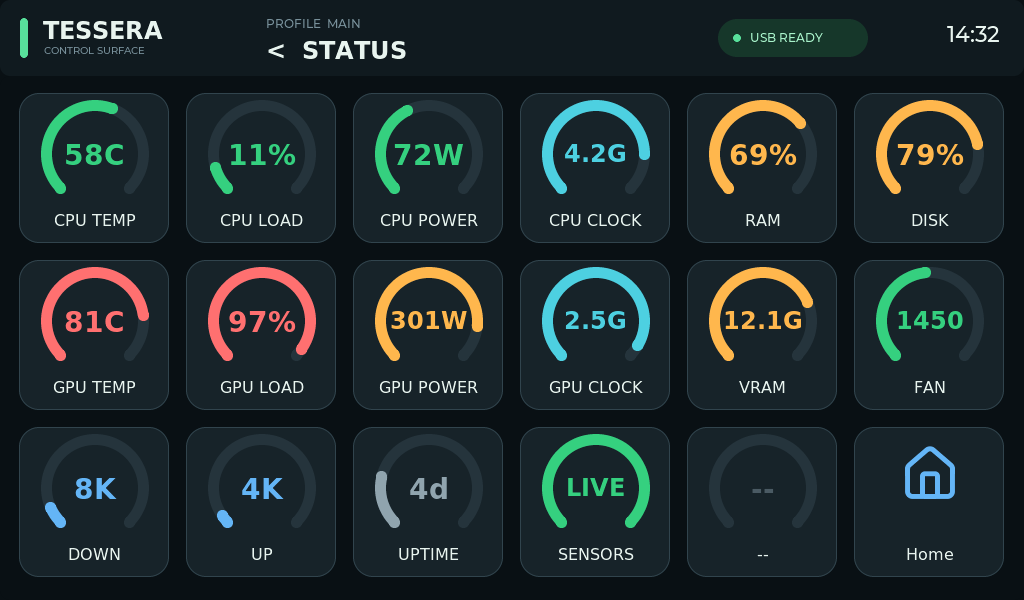
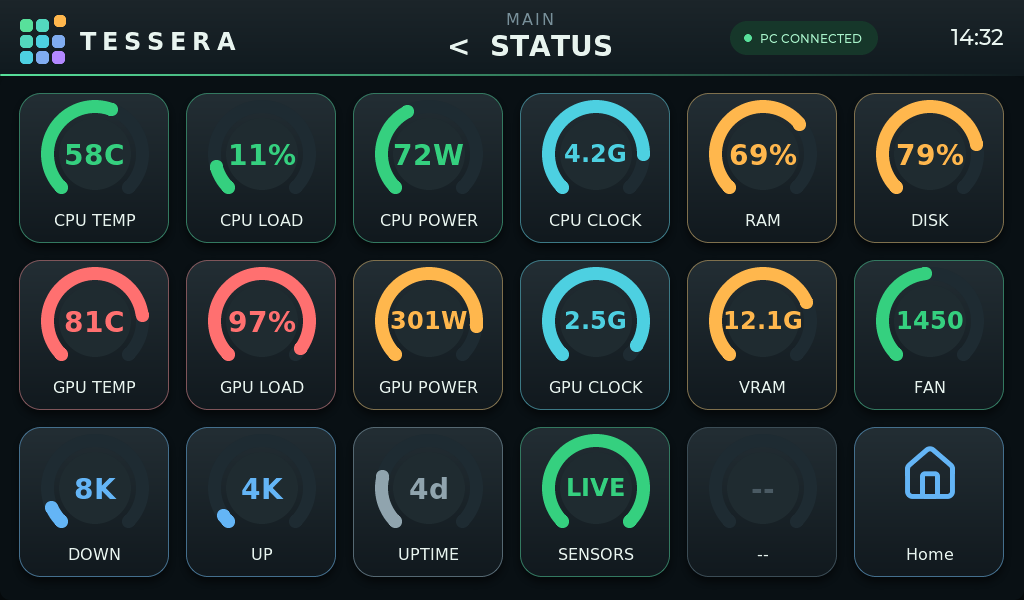
feat: richer key and gauge look on the panel and in the editor
Gradient key cards with tinted borders and soft shadows, disc-backed gauge rings,
a vertical background gradient and a clean TESSERA wordmark in the header.
The editor mirrors the panel. Screenshots refreshed.

diff --git a/host/editor/index.html b/host/editor/index.html
@@ -22,7 +22,7 @@
 <input type="file" id="import-file" accept=".json,application/json" hidden>
 </div>
 <div class="device-frame" id="device-frame"><div class="device-screen" id="device-screen">
-<div class="screen-header"><span class="screen-logo" data-logo></span><b class="screen-wordmark" data-wordmark role="img" aria-label="Tessera"></b><div class="screen-context"><small id="screen-profile">LOCAL</small><b id="screen-page">Main</b></div><div class="screen-pill"><i></i><span id="screen-usb">PC CONNECTED</span></div><span class="screen-clock" id="screen-clock">--:--</span><span class="screen-rule"></span></div>
+<div class="screen-header"><span class="screen-logo" data-logo></span><b class="screen-wordmark">TESSERA</b><div class="screen-context"><small id="screen-profile">LOCAL</small><b id="screen-page">Main</b></div><div class="screen-pill"><i></i><span id="screen-usb">PC CONNECTED</span></div><span class="screen-clock" id="screen-clock">--:--</span><span class="screen-rule"></span></div>
 <div id="deck-grid" class="deck-grid" role="group" aria-label="Deck: 18 button slots"></div></div></div>
 <div class="syncbar"><div><span id="save-state" role="status" aria-live="polite">Loading configuration …</span><small id="save-note">Changes are saved automatically.</small></div>
 <label class="sync-switch"><input type="checkbox" id="sync" checked><span>Mirror on panel</span></label><button id="reload" class="outline" hidden>Reload</button><button id="activate" class="primary" hidden>Show on device</button></div>

diff --git a/host/editor/app.js b/host/editor/app.js
@@ -264,10 +264,11 @@ function expandLabel(value) {
   return text.replace(/[\u0000-\u001f]/g,' ');
 }
 function gaugeVisual(b,live) {
-  const NS='http://www.w3.org/2000/svg',D=108,width=11,r=(D-width)/2,C=2*Math.PI*r,arc=C*.75;
+  const NS='http://www.w3.org/2000/svg',D=108,width=13,r=(D-width)/2,C=2*Math.PI*r,arc=C*.75;
   const p=Math.max(0,Math.min(100,live?live.p:0)),color=live?.color||b.color||'#35D07F';
   const svg=document.createElementNS(NS,'svg');svg.setAttribute('viewBox',`0 0 ${D} ${D}`);svg.setAttribute('class','gauge-ring');
-  const rings=[[arc,'#25343C']];if(p>0)rings.push([arc*p/100,color]);
+  const disc=document.createElementNS(NS,'circle');for(const [name,value] of Object.entries({cx:D/2,cy:D/2,r:(D-36)/2,fill:'#1B272D'}))disc.setAttribute(name,value);svg.append(disc);
+  const rings=[[arc,'#1E2B32']];if(p>0)rings.push([arc*p/100,color]);
   for(const [dash,stroke] of rings) {
     const circle=document.createElementNS(NS,'circle');
     const attributes={cx:D/2,cy:D/2,r,fill:'none',stroke,'stroke-width':width,'stroke-linecap':'round','stroke-dasharray':`${dash} ${C}`,transform:`rotate(135 ${D/2} ${D/2})`};

diff --git a/host/editor/style.css b/host/editor/style.css
@@ -147,3 +147,8 @@ span.key-symbol{left:0;width:150px;top:17px;height:60px}
 .plugin-row .error{color:#ff8a80;font-size:13px}
 #log-dialog{width:min(900px,94vw)}
 #log-view{margin:12px 0 0;height:50vh;overflow:auto;background:#0b1114;border:1px solid #26343b;border-radius:10px;padding:10px 12px;font:12px/1.45 Consolas,monospace;color:#cfe3da;white-space:pre-wrap;word-break:break-word}
+.screen-wordmark{left:80px;top:26px;width:auto;height:auto;font-size:24px;line-height:28px;letter-spacing:6px;font-weight:700;color:#e8f4ef}
+.screen-header{background:linear-gradient(#171f25,#101a1f)}
+.device-screen{background:linear-gradient(#091014,#05090b)}
+.deck-key:not(.empty){background:linear-gradient(#232e34,#11191d);border-color:color-mix(in srgb,var(--key-color,#31444d) 38%,#31444d);box-shadow:0 5px 18px #0008;border-radius:22px}
+.deck-key.selected{box-shadow:0 0 0 3px #58e09b30,0 5px 18px #0008;border-color:#58e09b}

diff --git a/main/ui/ui.cpp b/main/ui/ui.cpp
@@ -26,6 +26,7 @@ constexpr uint32_t Border=0x31444D,Text=0xE8F4EF,Muted=0x78909A,Accent=0x58E09B;
 constexpr uint32_t PressedBg=0x254E3B,OkBg=0x1E6042,AlertBg=0x6E2633,Amber=0xFFB74D;
 /* The four logo tile colors; they are the interface roles: go, info, media, toggle. */
 constexpr uint32_t Cyan=0x4DD0E1,Purple=0xB388FF;
+uint32_t mix(uint32_t from,uint32_t to,float t);
 /* The host pings every second; three missed pings mean nobody runs the keys. */
 constexpr int64_t HostTimeoutMs=3500;
 /* A pressed key stays highlighted until the host confirms it. Long multi-step
@@ -91,9 +92,13 @@ void image_frame(ImageTile& value) {
     lv_image_set_src(value.widget,&value.descriptor);lv_obj_invalidate(value.widget);
     value.due=millis()+value.image->durations[value.frame];
 }
-uint32_t base_bg[DECK_MAX_BUTTONS];  /* resting key background, restored after a confirmation flash */
+uint32_t base_bg[DECK_MAX_BUTTONS],base_top[DECK_MAX_BUTTONS],base_bottom[DECK_MAX_BUTTONS];  /* resting key fill, restored after a flash */
+void fill(int slot,uint32_t top,uint32_t bottom) {
+    lv_obj_set_style_bg_color(keys[slot],lv_color_hex(top),0);lv_obj_set_style_bg_grad_color(keys[slot],lv_color_hex(bottom),0);
+    lv_obj_set_style_bg_grad_dir(keys[slot],LV_GRAD_DIR_VER,0);
+}
 void flash(int slot,uint32_t color,uint32_t ms) {
-    lv_obj_set_style_bg_color(keys[slot],lv_color_hex(color),0);flash_until[slot]=millis()+ms;
+    fill(slot,color,mix(color,0x000000,.25f));flash_until[slot]=millis()+ms;
 }
 void press(lv_event_t *event) {
     const int slot=static_cast<int>(reinterpret_cast<intptr_t>(lv_event_get_user_data(event)));
@@ -132,12 +137,14 @@ void style_gauge(int slot,const deck_button_t& value) {
 }
 void make_gauge(int slot,lv_obj_t *tile,const deck_button_t& value) {
     constexpr int D=108,Top=6;
+    auto *disc=lv_obj_create(tile);flat(disc,mix(base_bg[slot],0xFFFFFF,.035f));lv_obj_set_size(disc,D-36,D-36);
+    lv_obj_set_pos(disc,(Cell-(D-36))/2,Top+18);lv_obj_set_style_radius(disc,LV_RADIUS_CIRCLE,0);lv_obj_remove_flag(disc,LV_OBJ_FLAG_CLICKABLE);
     auto *arc=lv_arc_create(tile);gauge_arc[slot]=arc;
     lv_obj_set_size(arc,D,D);lv_obj_set_pos(arc,(Cell-D)/2,Top);
     lv_arc_set_range(arc,0,100);lv_arc_set_bg_angles(arc,135,45);
     lv_obj_remove_style(arc,nullptr,LV_PART_KNOB);lv_obj_set_clickable(arc,false);
-    lv_obj_set_style_arc_width(arc,11,LV_PART_MAIN);lv_obj_set_style_arc_width(arc,11,LV_PART_INDICATOR);
-    lv_obj_set_style_arc_color(arc,lv_color_hex(0x25343C),LV_PART_MAIN);
+    lv_obj_set_style_arc_width(arc,13,LV_PART_MAIN);lv_obj_set_style_arc_width(arc,13,LV_PART_INDICATOR);
+    lv_obj_set_style_arc_color(arc,lv_color_hex(0x1E2B32),LV_PART_MAIN);
     lv_obj_set_style_arc_rounded(arc,true,LV_PART_MAIN);lv_obj_set_style_arc_rounded(arc,true,LV_PART_INDICATOR);
     gauge_value[slot]=label(tile,"",0,Top+D/2-16,Cell,&fq_font_dejavu_bold_28,Text);
     lv_obj_set_style_text_align(gauge_value[slot],LV_TEXT_ALIGN_CENTER,0);
@@ -161,10 +168,13 @@ void rebuild() {
         for(int n=0;n<deck_model_button_count();++n){deck_button_t item{};if(deck_model_get_button(n,&item)&&item.id==slot+1){value=item;assigned=true;break;}}
         auto *tile=lv_button_create(grid);keys[slot]=tile;
         lv_obj_set_pos(tile,X+(slot%6)*(Cell+Gap),Y+(slot/6)*(Cell+Gap));lv_obj_set_size(tile,Cell,Cell);
-        base_bg[slot]=assigned?((value.style&DECK_STYLE_BG)?value.bg:Surface):0x0E171B;
-        flat(tile,base_bg[slot]);lv_obj_set_style_radius(tile,20,0);
-        lv_obj_set_style_border_width(tile,(assigned&&(value.style&DECK_STYLE_BORDER))?3:1,0);
-        lv_obj_set_style_border_color(tile,lv_color_hex(!assigned?0x1B2A30:(value.style&DECK_STYLE_BORDER)?value.border:Border),0);
+        const uint32_t mid=assigned?((value.style&DECK_STYLE_BG)?value.bg:Surface):0x0E171B;
+        base_bg[slot]=mid;base_top[slot]=mix(mid,0xFFFFFF,assigned?.05f:0.f);base_bottom[slot]=mix(mid,0x000000,assigned?.28f:0.f);
+        flat(tile,mid);lv_obj_set_style_radius(tile,22,0);fill(slot,base_top[slot],base_bottom[slot]);
+        const bool own_border=assigned&&(value.style&DECK_STYLE_BORDER);
+        lv_obj_set_style_border_width(tile,own_border?3:1,0);
+        lv_obj_set_style_border_color(tile,lv_color_hex(!assigned?0x1B2A30:own_border?value.border:mix(Border,value.color,.38f)),0);
+        if(assigned){lv_obj_set_style_shadow_width(tile,18,0);lv_obj_set_style_shadow_color(tile,lv_color_hex(0x000000),0);lv_obj_set_style_shadow_opa(tile,LV_OPA_50,0);lv_obj_set_style_shadow_offset_y(tile,5,0);}
         lv_obj_set_style_bg_color(tile,lv_color_hex(0x244D3A),LV_STATE_PRESSED);
         if(!assigned){lv_obj_set_clickable(tile,false);auto *plus=label(tile,"+",0,51,Cell,&fq_font_dejavu_28,0x263940);lv_obj_set_style_text_align(plus,LV_TEXT_ALIGN_CENTER,0);continue;}
         ids[slot]=value.id;char packed[5]{};const bool lucide=deck_lucide_glyph(value.icon,packed);auto image=deck_image_get(value.icon);
@@ -174,7 +184,7 @@ void rebuild() {
         // Bold 16 uses the 20 px bold font; place it by that height, as the editor does.
         const int size=value.title_size?value.title_size:16,px=value.title_bold&&size==16?20:size;
         const int y=value.title_position==1?10:value.title_position==2?(Cell-px)/2:Cell-px-17;
-        auto *name=name_label[slot]=label(tile,value.label,9,y,Cell-18,title_font(value),(value.style&DECK_STYLE_TEXT)?value.text:Text);lv_obj_set_style_text_align(name,LV_TEXT_ALIGN_CENTER,0);lv_obj_set_hidden(name,value.title_position==3);
+        auto *name=name_label[slot]=label(tile,value.label,9,y,Cell-18,title_font(value),(value.style&DECK_STYLE_TEXT)?value.text:value.has_gauge?mix(Text,Muted,.3f):Text);lv_obj_set_style_text_align(name,LV_TEXT_ALIGN_CENTER,0);lv_obj_set_hidden(name,value.title_position==3);
         /* With a hold action, a click is a short press only; a long press reports a hold instead. */
         lv_obj_add_event_cb(tile,press,value.has_hold?LV_EVENT_SHORT_CLICKED:LV_EVENT_CLICKED,reinterpret_cast<void*>(static_cast<intptr_t>(slot)));
         if(value.has_hold)lv_obj_add_event_cb(tile,press,LV_EVENT_LONG_PRESSED,reinterpret_cast<void*>(static_cast<intptr_t>(slot)));
@@ -214,21 +224,6 @@ void make_logo(lv_obj_t *parent,int x,int y) {
         tile(parent,x+col*(Tile+Space),y+4+row*(Tile+Space),Tile,4,sweep((row+col)/4.f));
     }
     tile(parent,x+34,y,12,4,Amber);
-}
-/* TESSERA drawn from rounded tiles (5x7 letters), swept across the brand gradient. */
-void make_wordmark(lv_obj_t *parent,int x,int y) {
-    static const char *const glyphs[][7]={
-        {"11111","00100","00100","00100","00100","00100","00100"},
-        {"11111","10000","10000","11110","10000","10000","11111"},
-        {"01111","10000","10000","01110","00001","00001","11110"},
-        {"11110","10001","10001","11110","10100","10010","10001"},
-        {"01110","10001","10001","11111","10001","10001","10001"}};
-    static const int word[]={0,1,2,2,1,3,4};
-    constexpr int Cell=3,Pitch=4,Advance=5*Pitch+2,Count=7;
-    for(int letter=0;letter<Count;++letter)for(int row=0;row<7;++row)for(int col=0;col<5;++col) {
-        if(glyphs[word[letter]][row][col]!='1')continue;
-        tile(parent,x+letter*Advance+col*Pitch,y+row*Pitch,Cell,1,sweep((letter*5+col)/(Count*5.f-1)));
-    }
 }
 /* ---- Ambient clock: a big clock built from brand-gradient tiles, the date and a host-supplied line. ---- */
 lv_obj_t *ambient,*ambient_clock,*ambient_date,*ambient_line;
@@ -295,7 +290,7 @@ void update(lv_timer_t*) {
     for(auto& image:images)if(image.image&&image.image->frames.size()>1&&static_cast<int32_t>(millis()-image.due)>=0){image.frame=(image.frame+1)%image.image->frames.size();image_frame(image);}
     int id=0;deck_feedback_t result;
     while(deck_model_take_feedback(&id,&result))for(int i=0;i<DECK_MAX_BUTTONS;++i)if(ids[i]==id&&keys[i])flash(i,result==DECK_FEEDBACK_ALERT?AlertBg:OkBg,500);
-    for(int i=0;i<DECK_MAX_BUTTONS;++i)if(flash_until[i]&&static_cast<int32_t>(millis()-flash_until[i])>=0){lv_obj_set_style_bg_color(keys[i],lv_color_hex(base_bg[i]),0);flash_until[i]=0;}
+    for(int i=0;i<DECK_MAX_BUTTONS;++i)if(flash_until[i]&&static_cast<int32_t>(millis()-flash_until[i])>=0){fill(i,base_top[i],base_bottom[i]);flash_until[i]=0;}
     update_link();
     update_ambient();
     lv_label_set_text(clock_label,time_service_time_text());
@@ -304,9 +299,11 @@ void update(lv_timer_t*) {
 
 extern "C" void ui_show_destination(int) {if(screen){deck_model_set_screen(DECK_SCREEN_DECK);lv_screen_load(screen);}}
 extern "C" void ui_init(void) {
-    screen=lv_obj_create(nullptr);flat(screen,Bg);auto *header=lv_obj_create(screen);flat(header,HeaderBg);lv_obj_set_size(header,W,Header);lv_obj_set_style_radius(header,0,0);
+    screen=lv_obj_create(nullptr);flat(screen,Bg);lv_obj_set_style_bg_grad_color(screen,lv_color_hex(0x05090B),0);lv_obj_set_style_bg_grad_dir(screen,LV_GRAD_DIR_VER,0);
+    auto *header=lv_obj_create(screen);flat(header,mix(HeaderBg,0xFFFFFF,.05f));lv_obj_set_style_bg_grad_color(header,lv_color_hex(HeaderBg),0);lv_obj_set_style_bg_grad_dir(header,LV_GRAD_DIR_VER,0);
+    lv_obj_set_size(header,W,Header);lv_obj_set_style_radius(header,0,0);
     make_logo(header,20,15);
-    make_wordmark(header,78,24);
+    auto *wordmark=label(header,"TESSERA",80,26,220,&fq_font_dejavu_bold_24,Text);lv_obj_set_style_text_letter_space(wordmark,6,0);
     profile_label=label(header,"LOCAL",340,10,380,&fq_font_dejavu_16,Muted);lv_obj_set_style_text_align(profile_label,LV_TEXT_ALIGN_CENTER,0);lv_obj_set_style_text_letter_space(profile_label,2,0);
     page_label=label(header,"Main",340,29,380,&fq_font_dejavu_bold_28,Text);lv_obj_set_style_text_align(page_label,LV_TEXT_ALIGN_CENTER,0);
     link_pill=lv_obj_create(header);flat(link_pill,0x16372A);lv_obj_set_pos(link_pill,730,21);lv_obj_set_size(link_pill,148,34);lv_obj_set_style_radius(link_pill,17,0);

diff --git a/tests/native/test_ui.cpp b/tests/native/test_ui.cpp
@@ -28,7 +28,7 @@ static void tap(int x,int y){touch_at={x,y};touching=true;updates();touching=fal
 static lv_obj_t* find(lv_obj_t* root,const char* text){if(lv_obj_check_type(root,&lv_label_class)&&!strcmp(lv_label_get_text(root),text))return root;for(uint32_t i=0;i<lv_obj_get_child_count(root);++i)if(auto* result=find(lv_obj_get_child(root,i),text))return result;return nullptr;}
 int main(int argc,char** argv){const std::filesystem::path output=argc>1?argv[1]:".";std::filesystem::create_directories(output);lv_init();lv_tick_set_cb(millis);pixels.resize(1024*600*3);auto* display=lv_display_create(1024,600);lv_display_set_color_format(display,LV_COLOR_FORMAT_XRGB8888);alignas(64)static uint32_t buffer[1024*600];lv_display_set_buffers(display,buffer,nullptr,sizeof(buffer),LV_DISPLAY_RENDER_MODE_FULL);lv_display_set_flush_cb(display,flush);lv_tick_inc(tick);deck_model_init();
 auto* touch=lv_indev_create();lv_indev_set_type(touch,LV_INDEV_TYPE_POINTER);lv_indev_set_read_cb(touch,touch_read);deck_model_note_host();
-deck_button_t parsed[18]{};int count=0;assert(deck_model_buttons_from_json(R"({"buttons":[{"id":1,"label":"Build","icon":"lc:e064","color":"#35D07F","hold":true,"title":{"size":20,"position":"bottom","bold":true}},{"id":18,"label":"Folder","icon":"folder","color":"#FFA868"}]})",parsed,18,&count));assert(count==2);assert(parsed[0].has_hold&&!parsed[1].has_hold);assert(deck_model_replace_buttons(parsed,count));deck_model_set_context("CODING","PROJECT",true);ui_init();updates();assert(lv_obj_get_child_count(lv_obj_get_child(lv_screen_active(),0))>100);assert(find(lv_screen_active(),"CODING"));assert(find(lv_screen_active(),"<  PROJECT"));assert(find(lv_screen_active(),"Build"));char status[256];assert(ui_debug_visible_text(status,sizeof(status))==0);assert(strstr(status,"\"screen\":\"deck\""));
+deck_button_t parsed[18]{};int count=0;assert(deck_model_buttons_from_json(R"({"buttons":[{"id":1,"label":"Build","icon":"lc:e064","color":"#35D07F","hold":true,"title":{"size":20,"position":"bottom","bold":true}},{"id":18,"label":"Folder","icon":"folder","color":"#FFA868"}]})",parsed,18,&count));assert(count==2);assert(parsed[0].has_hold&&!parsed[1].has_hold);assert(deck_model_replace_buttons(parsed,count));deck_model_set_context("CODING","PROJECT",true);ui_init();updates();assert(find(lv_screen_active(),"TESSERA"));assert(find(lv_screen_active(),"CODING"));assert(find(lv_screen_active(),"<  PROJECT"));assert(find(lv_screen_active(),"Build"));char status[256];assert(ui_debug_visible_text(status,sizeof(status))==0);assert(strstr(status,"\"screen\":\"deck\""));
 assert(find(lv_screen_active(),"PC CONNECTED")&&strstr(status,"\"pc\":true"));
 {/* Image cache: animated frames are counted, the 8 MiB limit holds, least recently used images go first, referenced ones stay. */
 auto upload=[&](unsigned n,int frames)->std::string{
